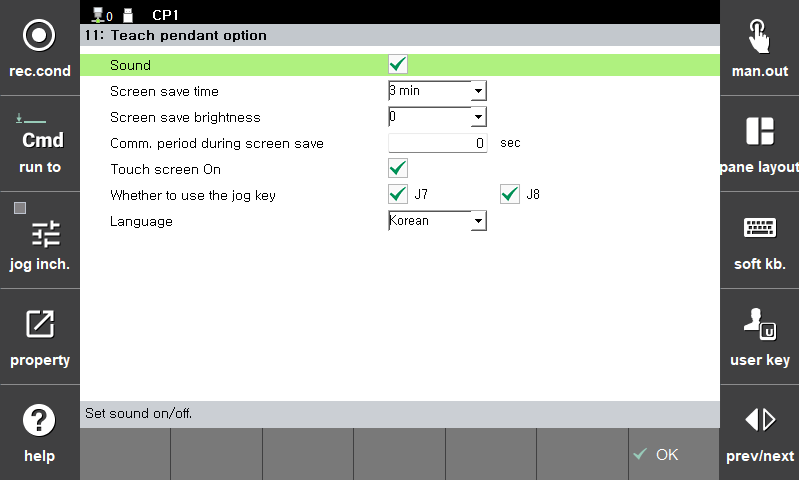
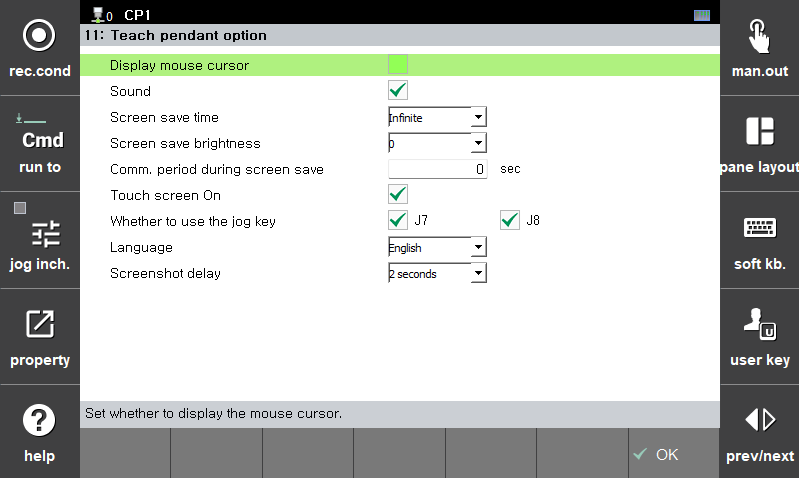
[HIXM-5650] 스크린샷 동작 지연 기능 개발

diff --git a/book.md b/book.md
@@ -3474,6 +3474,13 @@ Set the preference options of the teach pendant.
   <tbody>
     <tr>
       <td style="text-align:left">
+        Display mouse cursor
+      </td>
+      <td style="text-align:left">Toggles the display of the mouse cursor on the teach pendant screen.<br>
+      (Supported from version V70.04-00 and later.)</td>
+    </tr>
+    <tr>
+      <td style="text-align:left">
         Sound
       </td>
       <td style="text-align:left">Turns the Teach Pendant's beep sound ON or OFF.</td>
@@ -3517,6 +3524,13 @@ Set the preference options of the teach pendant.
       </td>
       <td style="text-align:left">Changes the display language of the Teach Pendant. Changes take effect after returning to the main screen.<br>
       (Supported from version V70.00-00 and later.<sup>3)</sup>)</td>
+    </tr>
+    <tr>
+      <td style="text-align:left">
+        Screenshot delay
+      </td>
+      <td style="text-align:left">You can capture the teach pendant screen by pressing the [CTRL]+[SHIFT]+[.] keys. <br>This setting determines the delay time for the capture operation.<br>Captured screens are saved as "screen_?.png" files in the TP/log folder within the File Manager.<br>
+      (Supported from version V70.02-00 and later.)</td>
     </tr>
   </tbody>
 </table>

diff --git a/4-service/7-tp-option.md b/4-service/7-tp-option.md
@@ -14,6 +14,13 @@ Set the preference options of the teach pendant.
   <tbody>
     <tr>
       <td style="text-align:left">
+        Display mouse cursor
+      </td>
+      <td style="text-align:left">Toggles the display of the mouse cursor on the teach pendant screen.<br>
+      (Supported from version V70.04-00 and later.)</td>
+    </tr>
+    <tr>
+      <td style="text-align:left">
         Sound
       </td>
       <td style="text-align:left">Turns the Teach Pendant's beep sound ON or OFF.</td>
@@ -57,6 +64,13 @@ Set the preference options of the teach pendant.
       </td>
       <td style="text-align:left">Changes the display language of the Teach Pendant. Changes take effect after returning to the main screen.<br>
       (Supported from version V70.00-00 and later.<sup>3)</sup>)</td>
+    </tr>
+    <tr>
+      <td style="text-align:left">
+        Screenshot delay
+      </td>
+      <td style="text-align:left">You can capture the teach pendant screen by pressing the [CTRL]+[SHIFT]+[.] keys. <br>This setting determines the delay time for the capture operation.<br>Captured screens are saved as "screen_?.png" files in the TP/log folder within the File Manager.<br>
+      (Supported from version V70.02-00 and later.)</td>
     </tr>
   </tbody>
 </table>
